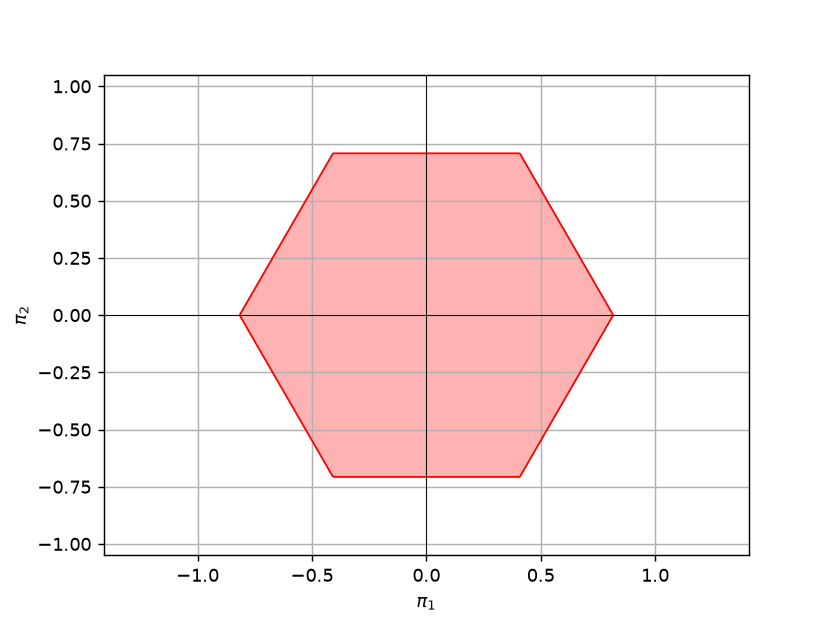
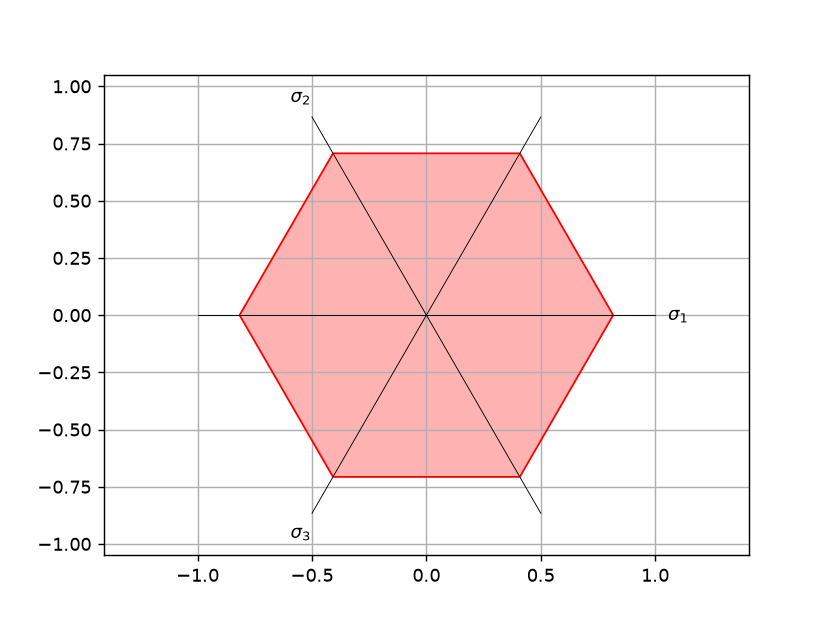
Show principal stress axes 120 deg apart in deviatoric plane plot

diff --git a/src/elasticipy/yield_criteria.py b/src/elasticipy/yield_criteria.py
@@ -191,7 +191,8 @@ class YieldCriterion(ABC):
                         npt=400, label=None, linewidth=1., linestyle='solid'):
         """
         Plot the elastic domain in the deviatoric plane (pi-plane), i.e. the plane where the three principal
-        stresses sum up to zero.
+        stresses sum up to zero. The projections of the three principal stress axes are shown as three
+        axes 120° apart from each other.
 
         Parameters
         ----------
@@ -260,10 +261,13 @@ class YieldCriterion(ABC):
         proxy = Line2D([0], [0], color=color, label=label, linewidth=linewidth, linestyle=linestyle)
         ax.add_line(proxy)
 
-        ax.set_xlabel(r'$\pi_1$')
-        ax.set_ylabel(r'$\pi_2$')
-        ax.axhline(0, color='black', linewidth=0.5)
-        ax.axvline(0, color='black', linewidth=0.5)
+        # Draw the projections of the three principal stress axes, 120° apart from each other
+        r_axis = r_max / margin
+        for angle, name in [(0, r'$\sigma_1$'), (2 * np.pi / 3, r'$\sigma_2$'), (4 * np.pi / 3, r'$\sigma_3$')]:
+            d = np.array([np.cos(angle), np.sin(angle)])
+            ax.plot([-d[0] * r_axis, d[0] * r_axis], [-d[1] * r_axis, d[1] * r_axis],
+                    color='black', linewidth=0.5)
+            ax.text(*(1.1 * r_axis * d), name, ha='center', va='center')
         ax.grid(True)
         ax.axis('equal')
 
